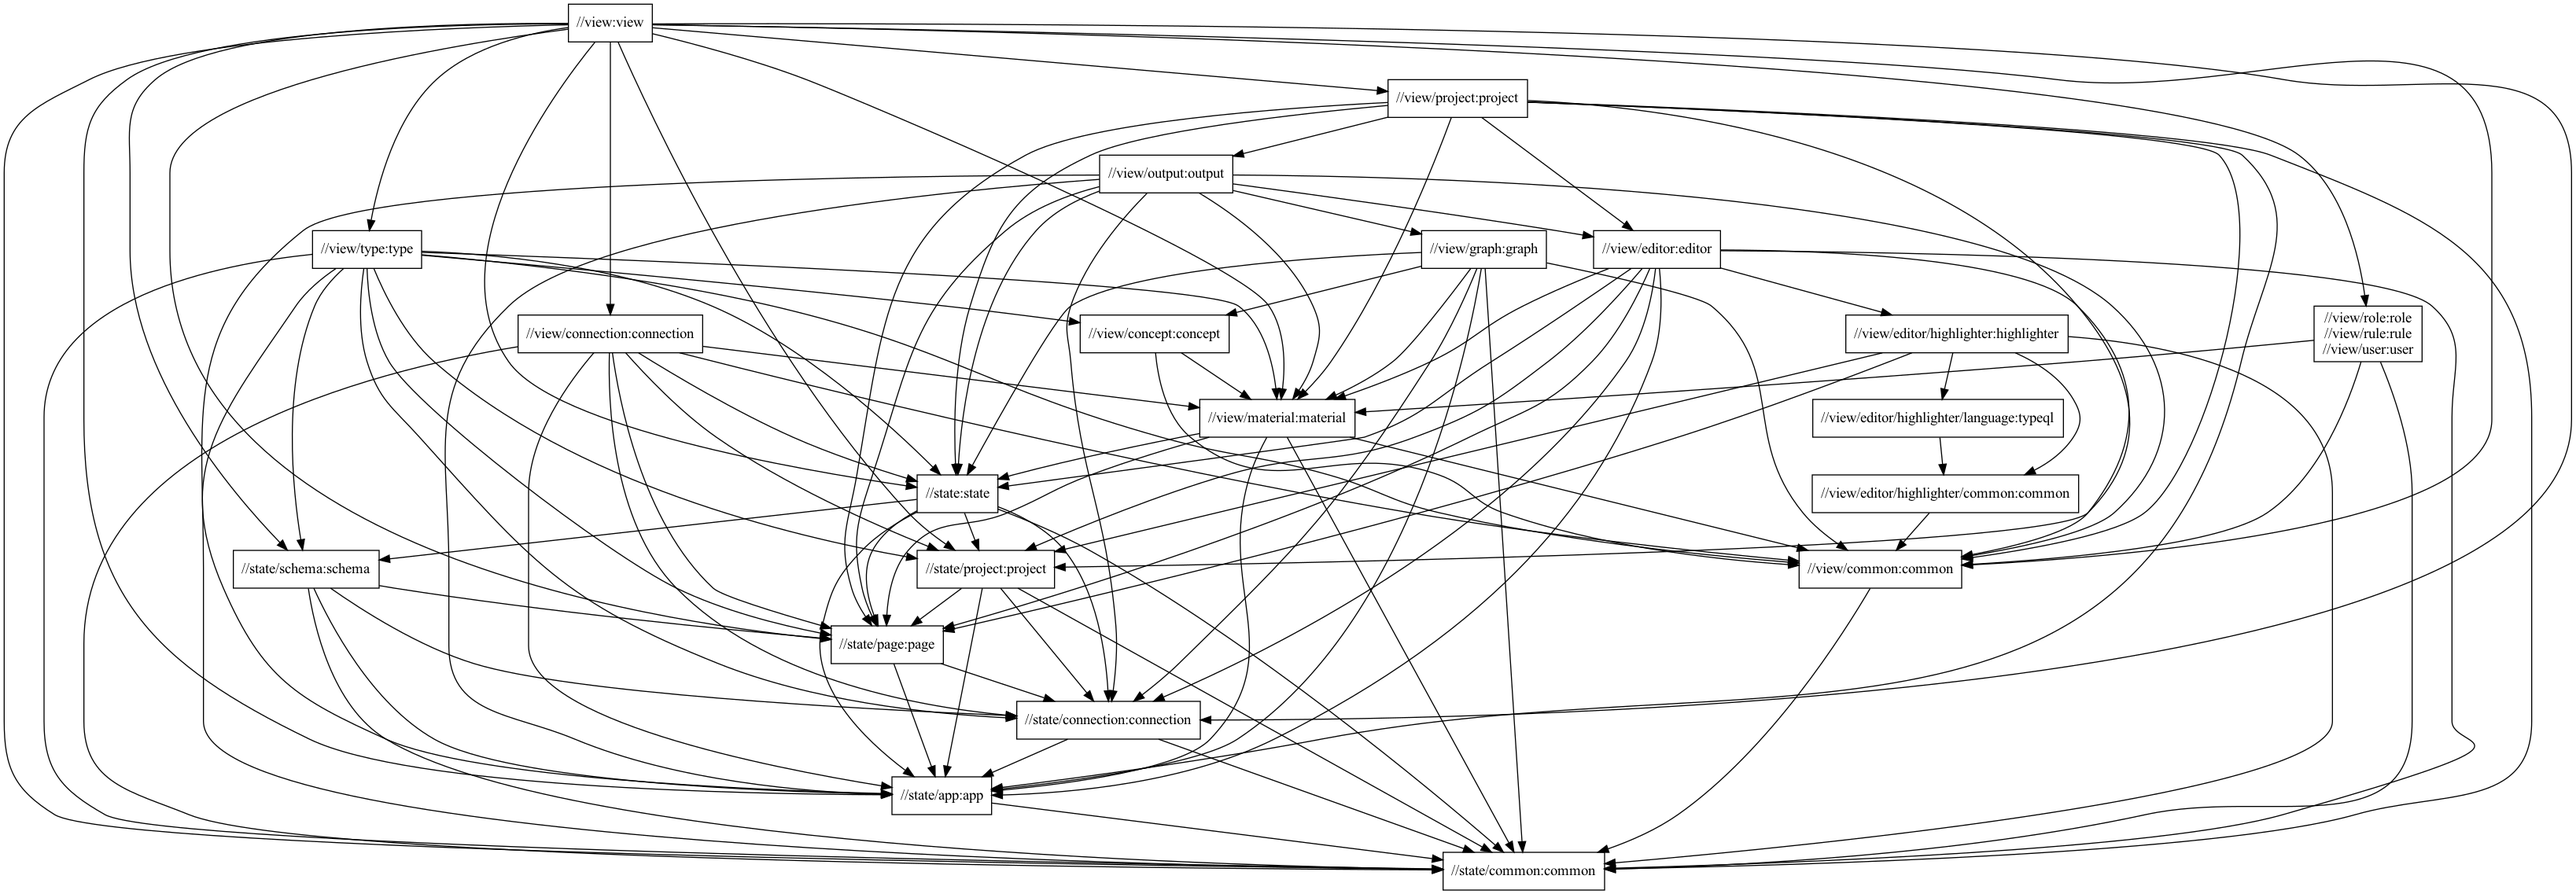
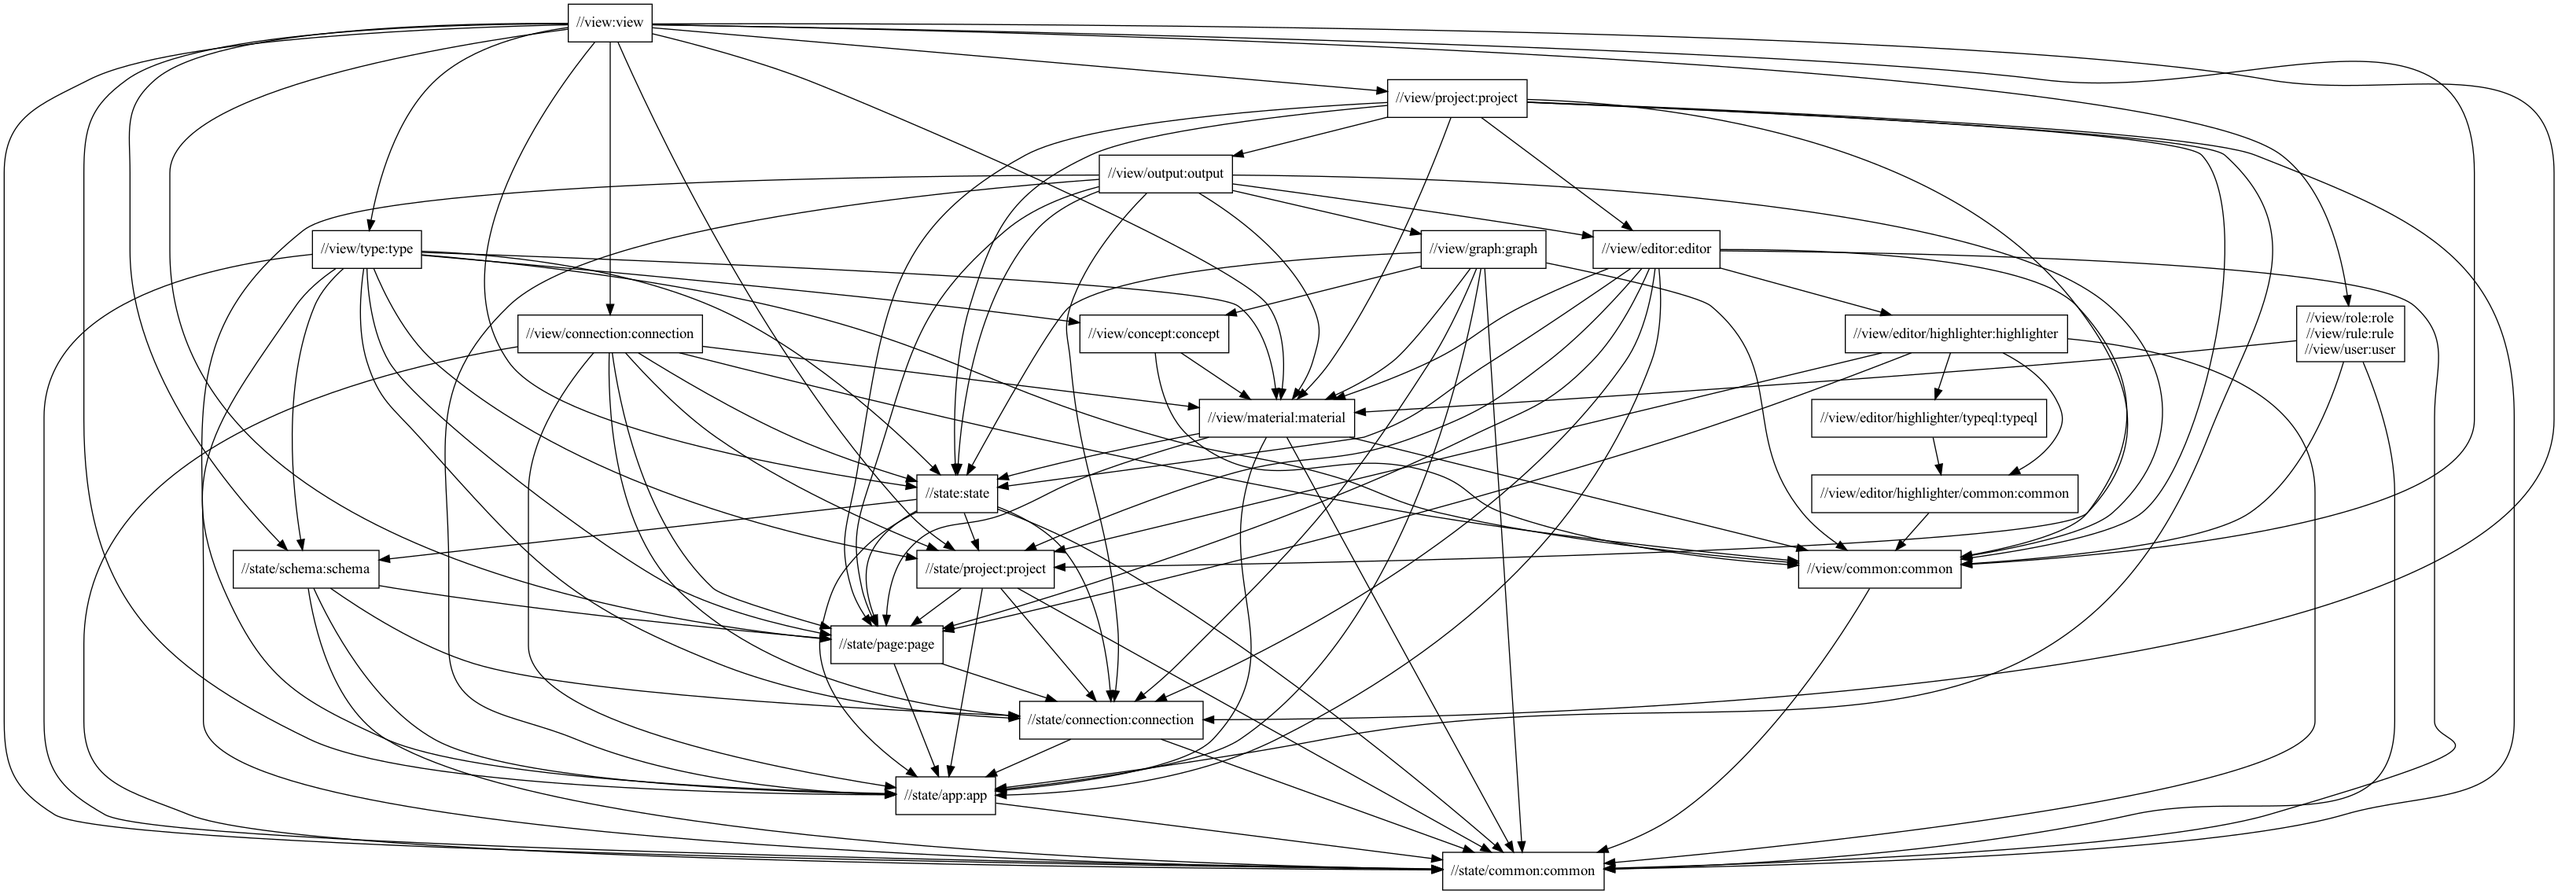
Refined package name build definitions of //view/editor/highlighter

diff --git a/view/editor/highlighter/typeql/TypeQLLexer.kt b/view/editor/highlighter/typeql/TypeQLLexer.kt
@@ -16,7 +16,7 @@
  *
  */
 
-package com.vaticle.typedb.studio.view.editor.highlighter.language
+package com.vaticle.typedb.studio.view.editor.highlighter.typeql
 
 import com.vaticle.typedb.common.yaml.YAML
 import com.vaticle.typedb.studio.view.editor.highlighter.common.Lexer
@@ -31,7 +31,7 @@ import org.antlr.v4.runtime.CommonTokenStream
 //       tokenisation rules using regular expressions
 object TypeQLLexer : Lexer {
 
-    private val TYPEQL_SCOPES_FILE = "view/editor/highlighter/language/typeql_scopes.yml"
+    private val TYPEQL_SCOPES_FILE = "view/editor/highlighter/typeql/typeql_scopes.yml"
     private val tokenScope: Map<String, String> = loadTokenScopeDefinition()
 
     private fun loadTokenScopeDefinition(): Map<String, String> {

diff --git a/view/editor/highlighter/SyntaxHighlighter.kt b/view/editor/highlighter/SyntaxHighlighter.kt
@@ -30,7 +30,7 @@ import com.vaticle.typedb.studio.view.editor.highlighter.common.Lexer
 import com.vaticle.typedb.studio.view.editor.highlighter.common.Lexer.Token
 import com.vaticle.typedb.studio.view.editor.highlighter.common.Scheme
 import com.vaticle.typedb.studio.view.editor.highlighter.common.Scope
-import com.vaticle.typedb.studio.view.editor.highlighter.language.TypeQLLexer
+import com.vaticle.typedb.studio.view.editor.highlighter.typeql.TypeQLLexer
 
 object SyntaxHighlighter {
 
